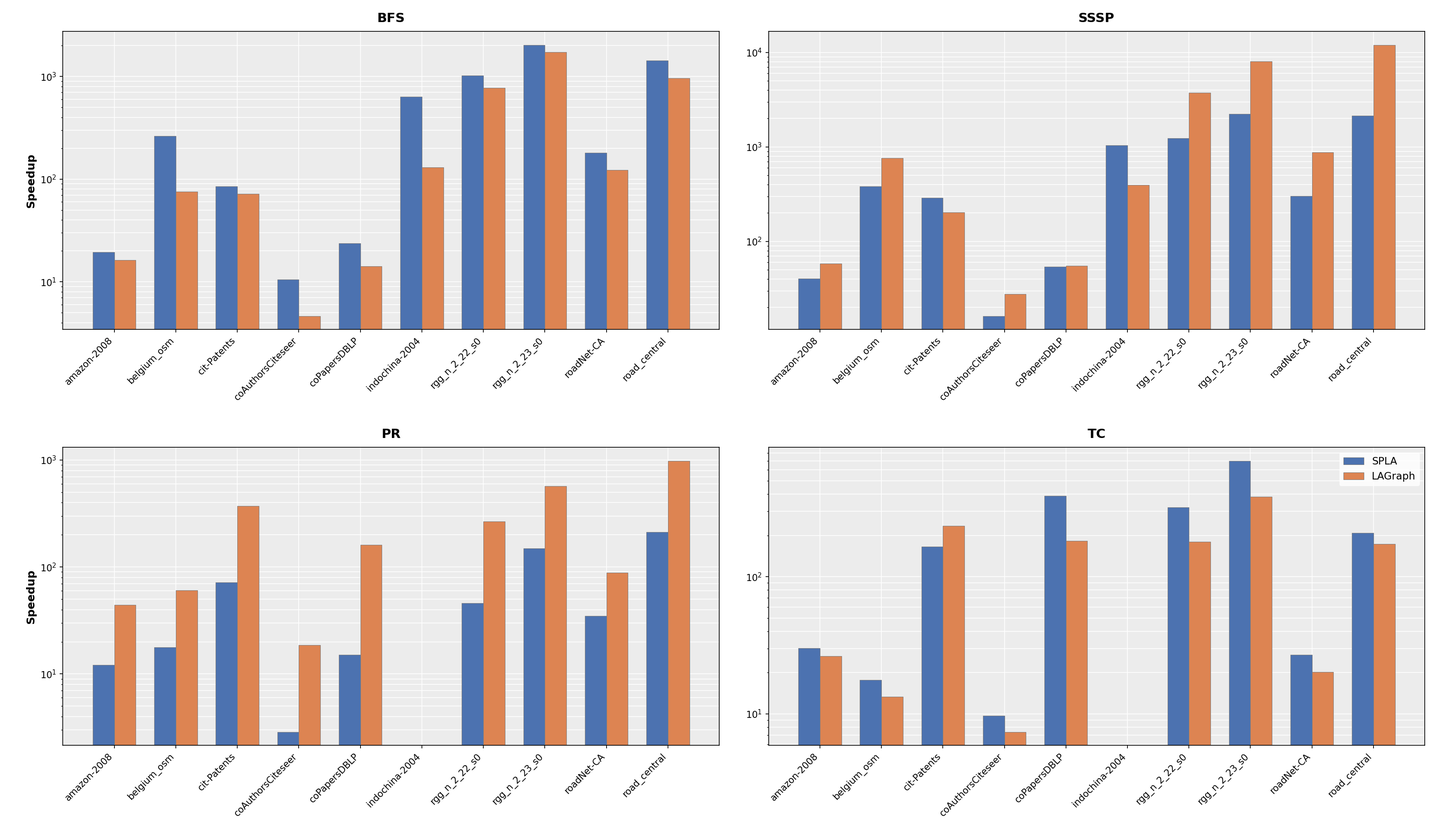
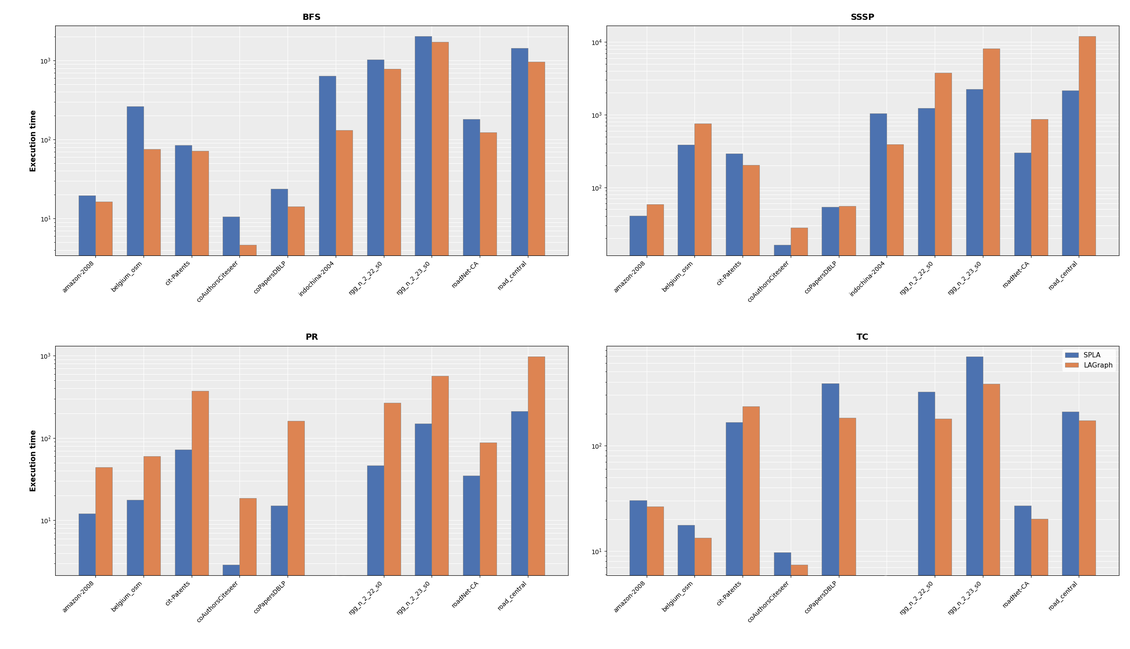
Fixed graphic and rewie

diff --git a/Ashikhmina Ljudmila/Ljudmila_Ashikhmina_report.tex b/Ashikhmina Ljudmila/Ljudmila_Ashikhmina_report.tex
@@ -1,10 +1,9 @@
-% Данный файл распространяетсяя под лицензией CC BY 4.0. Текст лицензии размещён на https://creativecommons.org/licenses/by/4.0/
-% (c) Кафедра системного программирования, 2025
 
 \documentclass[a4paper]{article}
 
 \usepackage[a4paper, top=8mm, bottom=8mm, left=8mm, right=8mm]{geometry}
 
+\usepackage{float}
 \usepackage{polyglossia}
 \setdefaultlanguage[babelshorthands=true]{russian}
 \setotherlanguage{english}
@@ -50,88 +49,89 @@
 	
 	\section{Постановка задачи}
 	
-	Spla --- библиотека для решения задач разреженной линейной алгебры, предназначенная для ускорения вычислений на GPGPU (графическом процессоре общего назначения) через стандарт OpenCL (открытый стандарт для программирования разнородных вычислительных систем). Библиотека реализует идеи GraphBLAS --- стандарта работы с графами с помощью линейной алгебры.
+	Spla~--- \cite{spla}  библиотека для решения задач разреженной линейной алгебры, предназначенная для ускорения вычислений на GPGPU через стандарт OpenCL~\cite{OpenCl}~--- открытый стандарт для программирования разнородных вычислительных систем. Библиотека реализует идеи GraphBLAS~\cite{GraphBlas} ~--- стандарта работы с графами с помощью линейной алгебры.
 	
-	Работа выполнялась в рамках задачи сравнительного исследования производительности Spla и CPU-аналога Lagraph на стандартных алгоритмах анализа графов. Требовалось провести серию измерений для различных графов и алгоритмов, сравнить время выполнения на GPU и CPU и определить сценарии, в которых использование GPU показывает преимущество.
+	Работа выполнялась в рамках задачи сравнительного исследования производительности Spla и CPU-аналога LAGraph~\cite{LAGraph}  на стандартных алгоритмах анализа графов. Требовалось провести серию измерений для различных графов и алгоритмов, сравнить время выполнения на GPU и CPU и определить сценарии, в которых использование GPU показывает преимущество.
 	
-	\textbf{Целью работы является} сравнительное исследование производительности библиотеки Spla, реализованной на GPGPU через стандарт OpenCL, и её CPU-аналога Lagraph на стандартных алгоритмах анализа графов для выявления сценариев, в которых использование GPU является наиболее производительным.
+	\textbf{Целью работы является} сравнительное исследование производительности библиотеки Spla, реализованной на GPGPU через стандарт OpenCL, и её CPU-аналога LAGraph на стандартных алгоритмах анализа графов для выявления сценариев, в которых использование GPU является наиболее производительным.
 	
 	Для достижения цели были поставлены следующие задачи:
 	\begin{enumerate}
-		\item выбрать набор тестовых графов и алгоритмов анализа графов;
-		\item провести серию измерений времени выполнения алгоритмов на Spla и Lagraph;
-		\item сравнить полученные результаты для различных типов графов и алгоритмов;
-		\item определить сценарии, в которых использование GPU имеет преимущество перед CPU.
+		\item Выбрать набор тестовых графов и алгоритмов анализа графов;
+		\item Провести серию измерений времени выполнения алгоритмов на Spla и LAGraph;
+		\item Сравнить полученные результаты для различных типов графов и алгоритмов;
 	\end{enumerate}
 	
-	Результаты работы необходимы для формирования доказательной базы производительности Spla. Для конечных пользователей это позволит оптимизировать вычислительные процессы, выбирая устройство для конкретных типов графов и алгоритмов. Материалы исследования будут интегрированы в официальную документацию репозитория Spla в качестве бенчмарков.
+	Результаты работы необходимы для формирования доказательной базы производительности Spla. Для конечных пользователей это позволит оптимизировать вычислительные процессы, выбирая устройство для конкретных типов графов и алгоритмов. Материалы исследования будут интегрированы в официальную документацию репозитория Spla в качестве тестов производительности.
 	
 	\section{Описание предлагаемого решения}
 	
-	Для проведения сравнительного анализа был использован репозиторий \texttt{graph-bench}, позволяющий запускать алгоритмы на различных датасетах.
+	Для проведения сравнительного анализа был использован репозиторий \texttt{graph-bench}, позволяющий запускать алгоритмы на различных графах.
 	
 	В рамках эксперимента оценивалось время выполнения четырёх алгоритмов:
 	\begin{itemize}[noitemsep]
-		\item \textbf{BFS} (поиск в ширину) --- обход графа по уровням;
-		\item \textbf{SSSP} (Single Source Shortest Paths) --- поиск кратчайших путей из одного источника;
-		\item \textbf{PR} (PageRank) --- итеративный алгоритм оценки важности вершин;
-		\item \textbf{TC} (Triangle Counting) --- подсчёт треугольников, то есть поиск циклов размера 3.
+		\item \textbf{BFS} (поиск в ширину)~--- обход графа по уровням;
+		\item \textbf{SSSP} (Single Source Shortest Paths)~--- поиск кратчайших путей из одного источника;
+		\item \textbf{PR} (PageRank)~--- итеративный алгоритм оценки важности вершин;
+		\item \textbf{TC} (Triangle Counting)~--- подсчёт треугольников, то есть поиск циклов размера 3.
 	\end{itemize}
 	
-	В качестве тестовых данных были выбраны 10 графов из коллекции SuiteSparse Matrix Collection, охватывающих различные домены: социальные и цитатные сети (\texttt{coAuthorsCiteseer}, \texttt{coPapersDBLP}, \texttt{cit-Patents}), веб-графы (\texttt{amazon-2008}, \texttt{indochina-2004}), дорожные сети (\texttt{belgium\_osm}, \texttt{roadNet-CA}, \texttt{road\_central}) и \texttt{rgg\_n\_2\_22\_s0}, \texttt{rgg\_n\_2\_23\_s0}. Выбор графов позволяет сравнить производительность алгоритмов на данных из различных предметных областей и с различной структурой.
+	В качестве тестовых данных были выбраны 10 графов из коллекции SuiteSparse Matrix Collection репозитория graph-bench~\cite{graph-bench}, охватывающих различные домены: социальные и цитатные сети (\texttt{coAuthorsCiteseer}, \texttt{coPapersDBLP}, \texttt{cit-Patents}), веб-графы (\texttt{amazon-2008}, \texttt{indochina-2004}), дорожные сети (\texttt{belgium\_osm}, \texttt{roadNet-CA}, \texttt{road\_central}) и \texttt{rgg\_n\_2\_22\_s0}, \texttt{rgg\_n\_2\_23\_s0}. Выбор графов позволяет сравнить производительность алгоритмов на данных из различных предметных областей и с различной структурой.
 	
-	Эксперименты проводились на тестовом стенде со следующими характеристиками:
-	\begin{itemize}[noitemsep]
-		\item CPU: AMD Ryzen 7 8845HS;
-		\item GPU: AMD Radeon 780M;
-		\item ОЗУ: 32 ГБ LPDDR5X;
-		\item ОС: Ubuntu 24.04.4 LTS;
-		\item OpenCl: 2.1
-		\end{itemize}
+	Эксперименты проводились на тестовом стенде со следующими характеристиками: CPU: AMD Ryzen 7 8845HS; GPU: AMD Radeon 780M; ОЗУ: 32 ГБ LPDDR5X; ОС: Ubuntu 24.04.4 LTS; OpenCL: 2.1. Использовалась версия библиотеки LAGraph 1.2.1.
+	
+	
 	
 	В качестве сравниваемых вариантов использовались библиотека Spla,
 	выполнявшая вычисления на GPU, и библиотека LAGraph, выполнявшая
 	соответствующие алгоритмы на CPU. Для обеих библиотек использовались
 	одинаковые входные графы и соответствующие алгоритмы. Измерялось
-	время выполнения алгоритма. Для каждой пары «алгоритм --- граф»
+	время выполнения алгоритма. Для каждой пары \enquote{алгоритм~--- граф}
 	параметры запуска оставались неизменными между повторными измерениями.
-		
+	
+	
+	
 	\section{Эксперименты}
 	
-	Целью эксперимента было сравнить время выполнения выбранных алгоритмов на Spla и Lagraph для графов различной структуры. В качестве входных данных использовались 10 графов из SuiteSparse Matrix Collection, перечисленных выше. Для каждой пары алгоритм --- граф проводилась серия из 20 замеров времени выполнения.
-	 По результатам серии рассчитывались среднее
+	Целью эксперимента было сравнить время выполнения выбранных алгоритмов на Spla и LAGraph для графов различной структуры. В качестве входных данных использовались 10 графов из SuiteSparse Matrix Collection, перечисленных выше. Для каждой пары алгоритм~--- граф проводилась серия из 20 замеров времени выполнения.
+	По результатам серии рассчитывались среднее
 	значение и стандартное отклонение. Относительное стандартное
 	отклонение во всех сериях не превышало 1\% от среднего значения,
 	что согласно методике измерений свидетельствует о малом разбросе
 	результатов. Для дальнейшего сравнения использовались средние
 	значения времени выполнения.
 	
-	Анализ полученных результатов выявил зависимость производительности от типа алгоритма и структуры графа:
 	
-	\begin{enumerate}
-		\item \textbf{PageRank (PR).} Алгоритм PageRank, сводящийся к итеративному умножению разреженной матрицы на вектор (SpMV, Sparse Matrix-Vector multiplication), демонстрирует наилучшие результаты на GPU. Библиотека Spla быстрее Lagraph в 5--10 раз на всех протестированных графах. Высокая степень параллелизма и регулярный характер обращений к памяти позволяют эффективно использовать вычислительные ресурсы GPU.
-		
-		\item \textbf{SSSP (кратчайшие пути).} Spla показывает преимущество в 3--5 раз на больших дорожных сетях благодаря регулярной структуре данных (\texttt{road\_central}, \texttt{roadNet-CA}) и геометрических графах (\texttt{rgg\_n\_2\_23\_s0}). Однако на графах с нерегулярной структурой и неравномерным распределением степеней вершин (\texttt{cit-Patents}, \texttt{indochina-2004}) CPU-реализация Lagraph оказывается быстрее за счёт оптимизаций работы ядер.
-		
-		\item \textbf{Triangle Counting (TC).} Операция подсчёта треугольников требует неоднократного умножения матриц с нерегулярным паттерном доступа к памяти. В большинстве случаев Lagraph выполняется быстрее. Spla выигрывает только на графе \texttt{cit-Patents}. Данный граф имеет 3.8 млн вершин и хаотичную структуру, создавая частые промахи кэша CPU, в то время как неравномерный доступ к памяти в случае GPU компенсируется параллелизмом.
-		
-		\item \textbf{BFS (поиск в ширину).} Алгоритм BFS характеризуется нерегулярным расширением фронта обхода, что приводит к частым обращениям GPU к ОЗУ. В результате Lagraph опережает Spla на всех датасетах, особенно на веб-графах и дорожных сетях.
-	\end{enumerate}
 	
-	Таким образом, производительность зависит от пропускной способности памяти и характера доступа к данным. Алгоритмы с регулярным доступом (PR) и высокой вычислительной плотностью на больших графах (SSSP на road/rgg) эффективно распараллеливаются на GPU благодаря эффективному доступу к памяти. Алгоритмы с нерегулярным доступом к памяти (BFS, TC) лучше выполняются на CPU.
+	Анализ полученных результатов выявил зависимость производительности от типа алгоритма и структуры графа
 	
-	Перед приведённым ниже графиком показано сравнение времени выполнения исследованных алгоритмов. По горизонтальной оси представлены сравниваемые случаи, а значение времени выполнения используется для оценки производительности Spla и Lagraph.
+	На рис.~\ref{fig:perf_comparison} показано сравнение времени выполнения исследованных алгоритмов. Основной метрикой сравнения является время выполнения алгоритма~--- продолжительность его выполнения, измеренная в миллисекундах. На графике представлены средние значения времени выполнения по результатам 20 замеров. Значение времени выполнения используется для оценки производительности Spla и Lagraph. 
 	
-	\begin{figure}[h]
+	
+	\begin{figure}[H]
 		\centering
-		\includegraphics[width=0.8\textwidth]{graphic.png}
+		\includegraphics[width=1\textwidth]{graphic.png}
 		\caption{Сравнение времени выполнения алгоритмов}
-		\label{fig:pr_plot}
+		\label{fig:perf_comparison}
 	\end{figure}
 	
-	По графику следует сравнить время выполнения алгоритмов на Spla и Lagraph и определить соответствие визуализированных результатов приведённым выше результатам эксперимента.
 	
-	Все результаты замеров и их средние значения доступны по ссылке: \url{https://drive.google.com/drive/u/1/folders/1J8WVkNs5ktG_Cv5sLw4bG_vfufb1ZyvR}
+	Из графика видно, что наибольшее различие во времени выполнения в пользу Spla наблюдается для PageRank~--- Spla выполнила алгоритм до 10.81 раз быстрее в графе coPapersDBLP. В пользу LAGraph наибольшее преимущество наблюдается для BFS~--- время выполнения алгоритма до 4.8 раз в графе indochina-2004.
+	
+	\begin{enumerate}
+		\item \textbf{PageRank (PR).} Алгоритм PageRank, сводящийся к итеративному умножению разреженной матрицы на вектор (SpMV, Sparse Matrix-Vector multiplication), демонстрирует наилучшие результаты на GPU. Библиотека Spla быстрее LAGraph в 5--10 раз на всех протестированных графах. Высокая степень параллелизма и регулярный характер обращений к памяти позволяют эффективно использовать вычислительные ресурсы GPU.
+		
+		
+		
+		\item \textbf{SSSP (кратчайшие пути).} Spla показывает преимущество в 3--5 раз на больших дорожных сетях благодаря регулярной структуре данных (\texttt{road\_central}, \texttt{roadNet-CA}) и геометрических графах (\texttt{rgg\_n\_2\_23\_s0}). Однако на графах с нерегулярной структурой и неравномерным распределением степеней вершин (\texttt{cit-Patents}, \texttt{indochina-2004}) CPU-реализация LAGraph оказывается быстрее за счёт оптимизаций работы ядер.
+		
+		\item \textbf{Triangle Counting (TC).} Операция подсчёта треугольников требует неоднократного умножения матриц с нерегулярным паттерном доступа к памяти. В большинстве случаев LAGraph выполняется быстрее. Spla выигрывает только на графе \texttt{cit-Patents}. Данный граф имеет 3.8 млн вершин и хаотичную структуру, создавая частые промахи кэша CPU, в то время как неравномерный доступ к памяти в случае GPU компенсируется параллелизмом.
+		
+		\item \textbf{BFS (поиск в ширину).} Алгоритм BFS характеризуется нерегулярным расширением фронта обхода, что приводит к частым обращениям GPU к ОЗУ. В результате LAGraph опережает Spla на всех датасетах, особенно на веб-графах и дорожных сетях.
+	\end{enumerate}
+	
+	
+	Таким образом, производительность зависит от пропускной способности памяти и характера доступа к данным. Алгоритмы с регулярным доступом (PR) и высокой вычислительной плотностью на больших графах (SSSP на road/rgg) эффективно распараллеливаются на GPU благодаря эффективному доступу к памяти. Алгоритмы с нерегулярным доступом к памяти (BFS, TC) лучше выполняются на CPU.
 	
 	\section{Заключение}
 	
@@ -140,18 +140,21 @@
 	\begin{itemize}
 		\item Проведено сравнительное тестирование библиотек Spla (GPU/OpenCL) и Lagraph (CPU) на 10 различных графах из репозитория \texttt{graph-bench}.
 		\item Выявлено, что для алгоритмов с высокой степенью параллелизма и регулярными паттернами доступа к памяти (PageRank, SSSP на дорожных сетях) использование Spla обеспечивает ускорение до 10 раз по сравнению с CPU-аналогом.
-		\item Показано, что для алгоритмов с нерегулярным обходом графа (BFS, Triangle Counting) более предпочтительным является использование Lagraph на CPU.
+		\item Показано, что для алгоритмов с нерегулярным обходом графа (BFS, Triangle Counting) более предпочтительным является использование LAGraph на CPU.
 	\end{itemize}
 	
+	Ссылка на репозиторий URL: \url{https://github.com/Lintari/Spla_experiments/tree/main}
+	Все результаты замеров и их средние значения доступны по ссылке: \url{https://drive.google.com/drive/u/1/folders/1J8WVkNs5ktG_Cv5sLw4bG_vfufb1ZyvR}
+	
+	
 	\begin{thebibliography}{99}
-		\bibitem{spla_orig} Исходный код библиотеки Spla [Электронный ресурс]. URL: https://github.com/SparseLinearAlgebra/spla (дата обращения: 20.09.2026).
-		\bibitem{graphbench} Исходный код библиотеки graph-bench [Электронный ресурс]. URL: https://github.com/EgorOrachyov/graph-bench (дата обращения: 20.09.2026).
-		\bibitem{lagraph} Исходный код библиотеки LAGraph [Электронный ресурс]. URL: https://github.com/GraphBLAS/LAGraph (дата обращения: 20.09.2026).
-		\bibitem{graphblas} GraphBLAS [Электронный ресурс]. URL: https://graphblas.org/ (дата обращения: 20.09.2026).
-		\bibitem{suitesparse} SuiteSparse Matrix Collection [Электронный ресурс]. URL: https://sparse.tamu.edu/ (дата обращения: 20.09.2026).
+		\bibitem{spla} Исходный код библиотеки Spla [Электронный ресурс]. URL: https://github.com/SparseLinearAlgebra/spla (дата обращения: 20.09.2026).
+		\bibitem {OpenCl} Сайт проекта OpenCL [Электронный ресурс]   URL: https://www.khronos.org/opencl/ (дата обращения: 20.09.2026).	
+		\bibitem{GraphBlas} GraphBLAS [Электронный ресурс]. URL: https://github.com/GraphBLAS (дата обращения: 20.09.2026)
+		\bibitem{LaGraph} Исходный код библиотеки LAGraph [Электронный ресурс]. URL: https://github.com/GraphBLAS/LAGraph (дата обращения: 20.09.2026).
+		\bibitem{graph-bench} Исходный код библиотеки graph-bench [Электронный ресурс]. URL: https://github.com/EgorOrachyov/graph-bench (дата обращения: 20.09.2026).
+		
 	\end{thebibliography}
 	
-	Ссылка на репозиторий URL: \url{https://github.com/Lintari/Spla_experiments/tree/main}
-	
+	Репозиторий с отчётами: URL: \url{https://github.com/gsvgit/1_year_practice_2026_reports}
 \end{document}
-```
